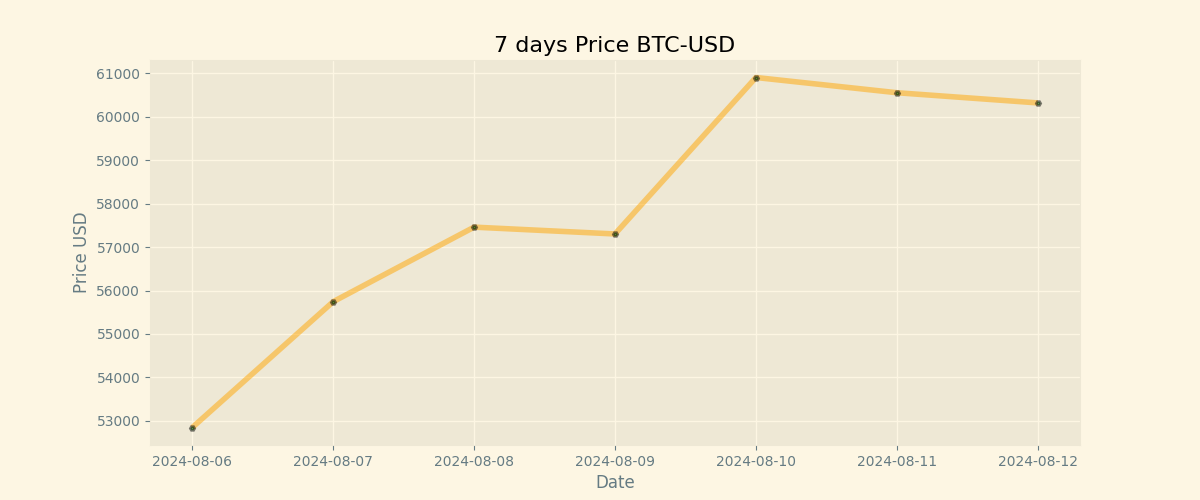
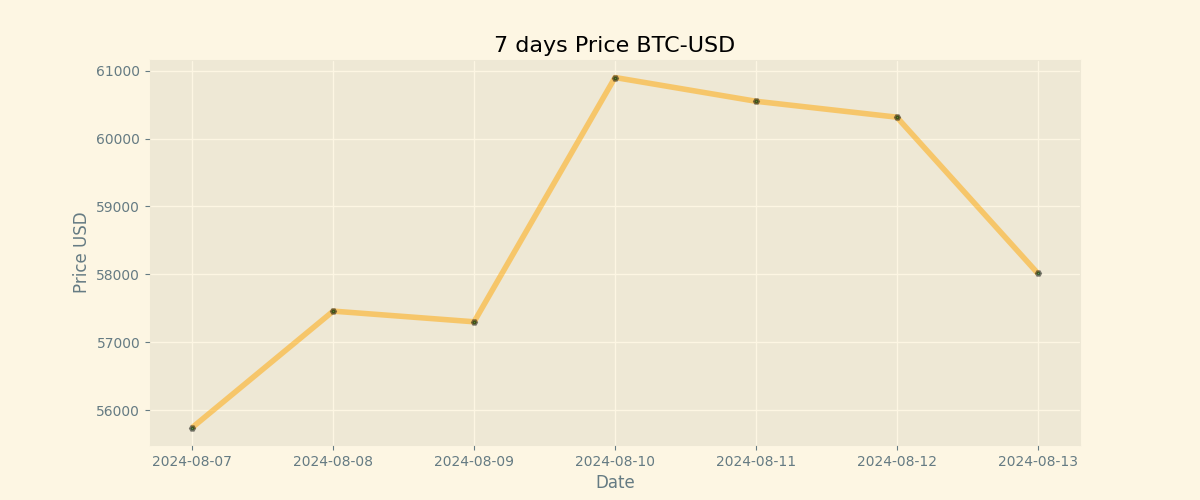
Duty Updates 2024-08-13

diff --git a/README.md b/README.md
@@ -9,8 +9,8 @@
 
 | Currency | Price           |
 | -------- | --------------- |
-| **BTC**  | **$ 60315.36** |
-| **ETH**  | **$ 2654.14** |
+| **BTC**  | **$ 58015.84** |
+| **ETH**  | **$ 2597.05** |
 
 ## BTC chart
 
